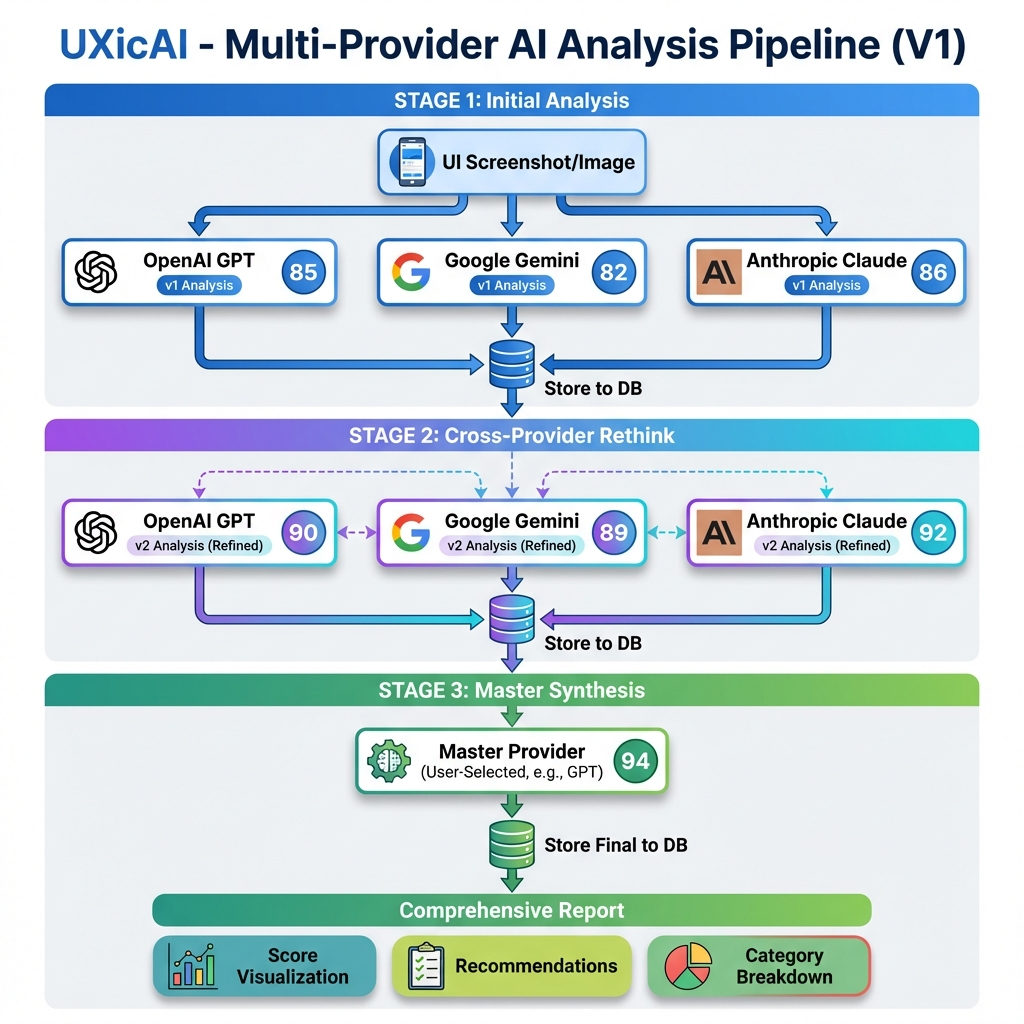
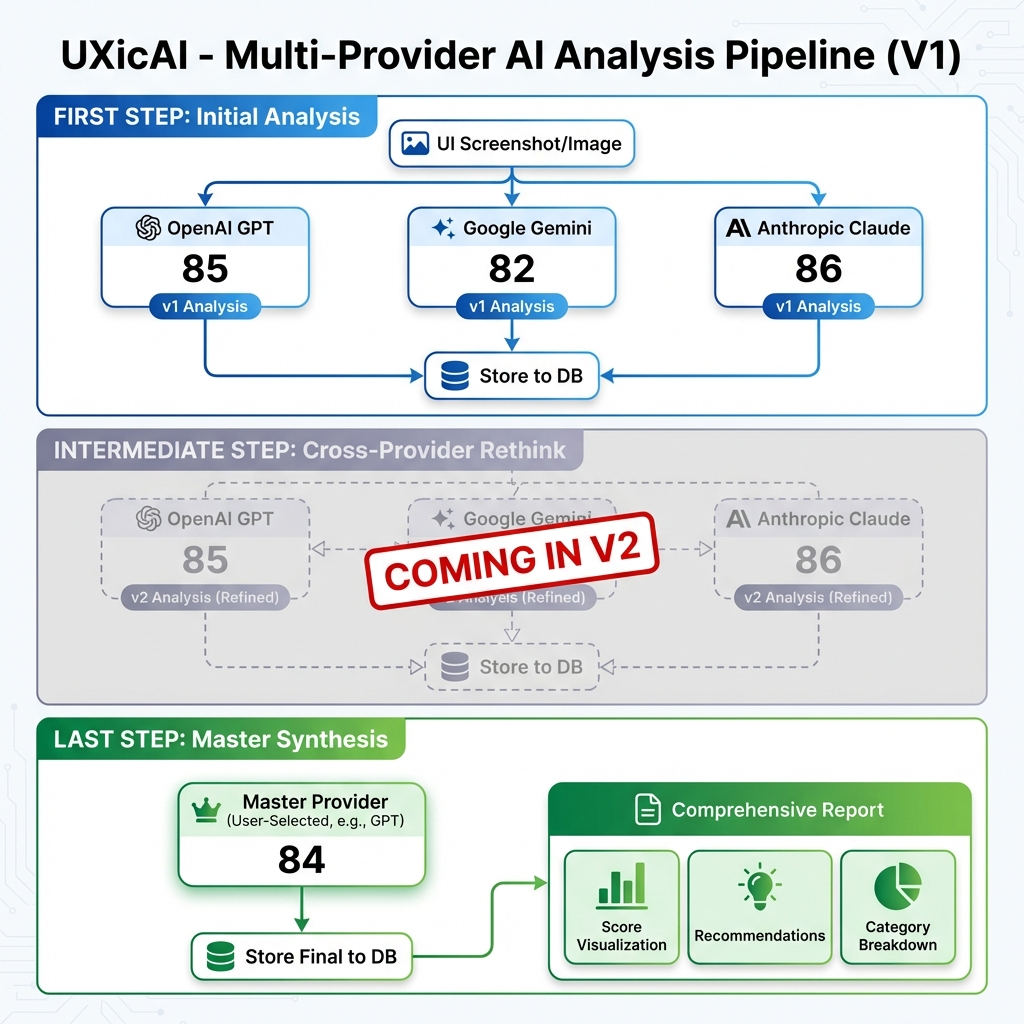
simplify v1 by delaying rethink step into v2

diff --git a/src/lib/ai/orchestrator.ts b/src/lib/ai/orchestrator.ts
@@ -116,6 +116,8 @@ export class AnalysisOrchestrator {
     return v1Results;
   }
 
+  // TODO: Version 2 - This method will be re-enabled in version 2
+  // For now, this step is skipped in the pipeline
   private async runStep2Rethink(
     imageBase64: string,
     config: AnalysisConfig,
@@ -170,7 +172,8 @@ export class AnalysisOrchestrator {
   private async runStep3Synthesis(
     imageBase64: string,
     config: AnalysisConfig,
-    v2Results: Map<
+    providerResults: Map<
+      // Now accepts v1 or v2 results
       AIProvider,
       { result: AnalysisResult; tokensUsed: number; latencyMs: number }
     >,
@@ -183,15 +186,15 @@ export class AnalysisOrchestrator {
     onProgress?.("step3", `Master synthesis with ${config.masterProvider}`);
 
     const masterProvider = this.getProvider(config.masterProvider);
-    const allV2Results: AnalysisResult[] = Array.from(v2Results.values()).map(
-      (v) => v.result,
-    );
+    const allResults: AnalysisResult[] = Array.from(
+      providerResults.values(),
+    ).map((v) => v.result);
 
     return await masterProvider.synthesize(
       imageBase64,
       SYNTHESIS_SYSTEM_PROMPT,
       SYNTHESIS_USER_PROMPT,
-      allV2Results,
+      allResults,
     );
   }
 
@@ -211,18 +214,25 @@ export class AnalysisOrchestrator {
     );
 
     // Step 2: Cross-Provider Rethink (parallel)
-    const v2Results = await this.runStep2Rethink(
-      imageBase64,
-      config,
-      v1Results,
-      onProgress,
-    );
+    // TODO: Version 2 - This step will be implemented in a future version
+    // For now, we skip the rethink step and use v1 results directly for synthesis
+    const v2Results = new Map<
+      AIProvider,
+      { result: AnalysisResult; tokensUsed: number; latencyMs: number }
+    >();
+    // const v2Results = await this.runStep2Rethink(
+    //   imageBase64,
+    //   config,
+    //   v1Results,
+    //   onProgress,
+    // );
 
     // Step 3: Master Synthesis
+    // TODO: Version 2 - Currently using v1 results instead of v2 results
     const synthesisResult = await this.runStep3Synthesis(
       imageBase64,
       config,
-      v2Results,
+      v1Results, // Using v1Results directly instead of v2Results for now
       onProgress,
     );
 
@@ -276,17 +286,18 @@ export class AnalysisOrchestrator {
     }
 
     // V2 results
-    for (const [provider, data] of results.v2Results) {
-      records.push({
-        analysis_id: analysisId,
-        provider,
-        step: "v2_rethink",
-        result: data.result,
-        score: data.result.overallScore,
-        tokens_used: data.tokensUsed,
-        latency_ms: data.latencyMs,
-      });
-    }
+    // TODO: Version 2 - Rethink step will be re-enabled in version 2
+    // for (const [provider, data] of results.v2Results) {
+    //   records.push({
+    //     analysis_id: analysisId,
+    //     provider,
+    //     step: "v2_rethink",
+    //     result: data.result,
+    //     score: data.result.overallScore,
+    //     tokens_used: data.tokensUsed,
+    //     latency_ms: data.latencyMs,
+    //   });
+    // }
 
     // Synthesis result
     records.push({

diff --git a/src/app/page.tsx b/src/app/page.tsx
@@ -87,12 +87,14 @@ export default function Home() {
           </div>
 
           <div className="grid md:grid-cols-3 gap-6">
-            {/* Step 1 */}
+            {/* First Step */}
             <div className="glass-card rounded-2xl p-8">
               <div className="w-12 h-12 rounded-xl bg-primary/20 flex items-center justify-center mb-6">
-                <span className="text-2xl font-bold text-primary">1</span>
+                <span className="text-xl font-bold text-primary">1st</span>
               </div>
-              <h3 className="text-xl font-semibold mb-3">Initial Analysis</h3>
+              <h3 className="text-xl font-semibold mb-3">
+                First Step: Initial Analysis
+              </h3>
               <p className="text-muted">
                 Each AI provider independently analyzes your UI/UX, scoring
                 categories like color contrast, typography, accessibility, and
@@ -100,27 +102,32 @@ export default function Home() {
               </p>
             </div>
 
-            {/* Step 2 */}
-            <div className="glass-card rounded-2xl p-8">
+            {/* Intermediate Step */}
+            <div className="glass-card rounded-2xl p-8 opacity-60">
               <div className="w-12 h-12 rounded-xl bg-accent/20 flex items-center justify-center mb-6">
-                <span className="text-2xl font-bold text-accent">2</span>
+                <span className="text-lg font-bold text-accent">V2</span>
               </div>
               <h3 className="text-xl font-semibold mb-3">
-                Cross-Provider Rethink
+                Intermediate Step
+                <span className="ml-2 text-xs px-2 py-1 rounded-full bg-accent/20 text-accent">
+                  Coming in V2
+                </span>
               </h3>
               <p className="text-muted">
-                Providers review each other&apos;s findings. They reconsider
-                their assessments, catching blind spots and resolving
-                disagreements.
+                Planned for version 2: Providers will review each other&apos;s
+                findings, reconsidering their assessments and catching blind
+                spots.
               </p>
             </div>
 
-            {/* Step 3 */}
+            {/* Last Step */}
             <div className="glass-card rounded-2xl p-8">
               <div className="w-12 h-12 rounded-xl bg-success/20 flex items-center justify-center mb-6">
-                <span className="text-2xl font-bold text-success">3</span>
+                <span className="text-xl font-bold text-success">3rd</span>
               </div>
-              <h3 className="text-xl font-semibold mb-3">Master Synthesis</h3>
+              <h3 className="text-xl font-semibold mb-3">
+                Last Step: Master Synthesis
+              </h3>
               <p className="text-muted">
                 Your trusted provider synthesizes all insights into a final,
                 actionable report with prioritized recommendations.

diff --git a/docs/AI_PIPELINE.md b/docs/AI_PIPELINE.md
@@ -10,7 +10,7 @@ The UXicAI service uses a sophisticated multi-step multi-provider AI pipeline to
 
 ## Three-Step Process
 
-### Step 1: Initial Analysis
+### First Step: Initial Analysis
 **Purpose:** Independent evaluation from each AI provider
 
 - User uploads a screenshot or captures their screen
@@ -33,23 +33,14 @@ The UXicAI service uses a sophisticated multi-step multi-provider AI pipeline to
 
 ---
 
-### Step 2: Cross-Provider Rethink
-**Purpose:** Refinement through collaborative review
+### Intermediate Step: Cross-Provider Rethink
+**Status:** Planned for Version 2
 
-- Each provider receives:
-  - Their own v1 analysis
-  - All other providers' v1 analyses
-- Providers reconsider their assessments:
-  - Acknowledge valid points they may have missed
-  - Adjust scores based on new insights
-  - Maintain rigorous analysis while being open to other perspectives
-- All v2 (refined) results are stored in the database
-
-**Output:** Refined analysis from each provider with improved accuracy
+This intermediate refinement step will be implemented in a future version of the application.
 
 ---
 
-### Step 3: Master Synthesis
+### Last Step: Master Synthesis
 **Purpose:** Final authoritative assessment
 
 - User's chosen "Master Provider" synthesizes all v2 results
